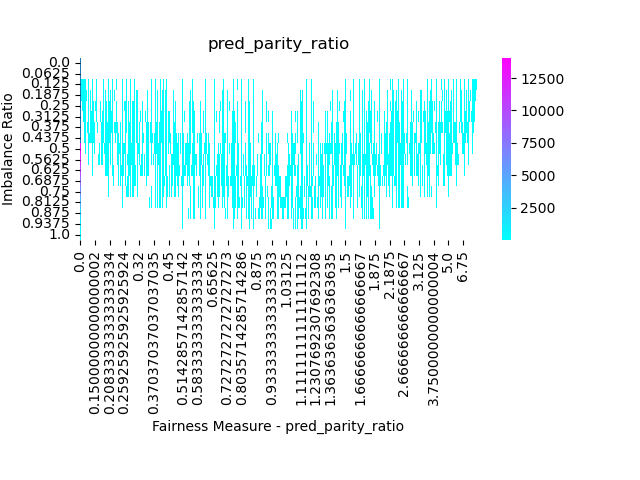
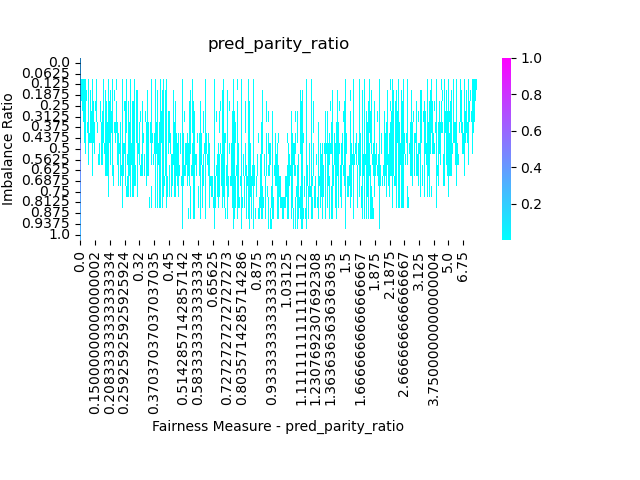
change counts to probability on heatmaps

Changed region(s): [[0.8125, 0.0938, 0.875, 0.3125], [0.8125, 0.4062, 0.875, 0.4375], [0.8125, 0.3438, 0.875, 0.375]]

diff --git a/main.py b/main.py
@@ -195,7 +195,14 @@ def get_pred_parity_diff(df):
 
 def create_heatmap(df, fair_measure):
     df1 = df.groupby(['ir', fair_measure]).size().reset_index(name='counts')
-    heatm = sns.heatmap(df1.pivot('ir', fair_measure, values='counts'), annot=False, cmap='cool')
+    print(df1)
+    ir_counts = df1.groupby(['ir'])['counts'].sum().reset_index(name='ir_counts')
+    print(ir_counts)
+    df1 = pd.merge(df1, ir_counts, on='ir', how='left')
+    print(df1)
+    df1['probability'] = df1.counts / df1.ir_counts
+    print(df1)
+    heatm = sns.heatmap(df1.pivot('ir', fair_measure, values='probability'), annot=False, cmap='cool')
     plt.title(str(fair_measure))
     plt.xlabel(f"Fairness Measure - {fair_measure}")
     plt.ylabel("Imbalance Ratio")
@@ -288,10 +295,14 @@ if __name__ == '__main__':
     # save_txt_dataset(X, txt_fname)
     
     df = create_dataframe(X, k)
-    fm_list = ['equal_opp_ratio', 'equal_opp_diff', 'stat_parity', 'disp_impact', 'acc_equality_ratio', 
-               'acc_equality_diff', 'pred_equality_ratio', 'pred_equality_diff', 'pred_parity_ratio', 'pred_parity_diff']
+    fm_list = ['equal_opp_ratio', 
+               'equal_opp_diff', 'stat_parity', 'disp_impact', 'acc_equality_ratio', 
+               'acc_equality_diff', 'pred_equality_ratio', 'pred_equality_diff', 'pred_parity_ratio', 'pred_parity_diff'
+               ]
     ir_selected_list = df['ir'].unique().tolist()
 
+    pd.set_option('display.max_columns', None)
+    pd.set_option('display.max_rows', None)
     
     for fm in fm_list:
         create_heatmap(df, fm)
@@ -305,9 +316,9 @@ if __name__ == '__main__':
     # 5 TODO: Więcej miar - DONE
     # 6 TODO: Zaokrąglenie wartości na osiach
     # 7 TODO: Wyciągnięcie IR z DF - DONE
-    # 8 heatmapa - nie count a prawdopodob. (przy zadanym ir jaki procent przykladow mial dany fairness)
-    # scala color sequential
-    # policzyć n dla danego zbioru
+    # 8 heatmapa - nie count a prawdopodob. (przy zadanym ir jaki procent przykladow mial dany fairness) - DONE
+    # scala color sequential - DONE
+    # policzyć n dla danego zbioru w df
         
     print("Total time: %.2f [s]" % (time.time() - prog_start_time))
 
